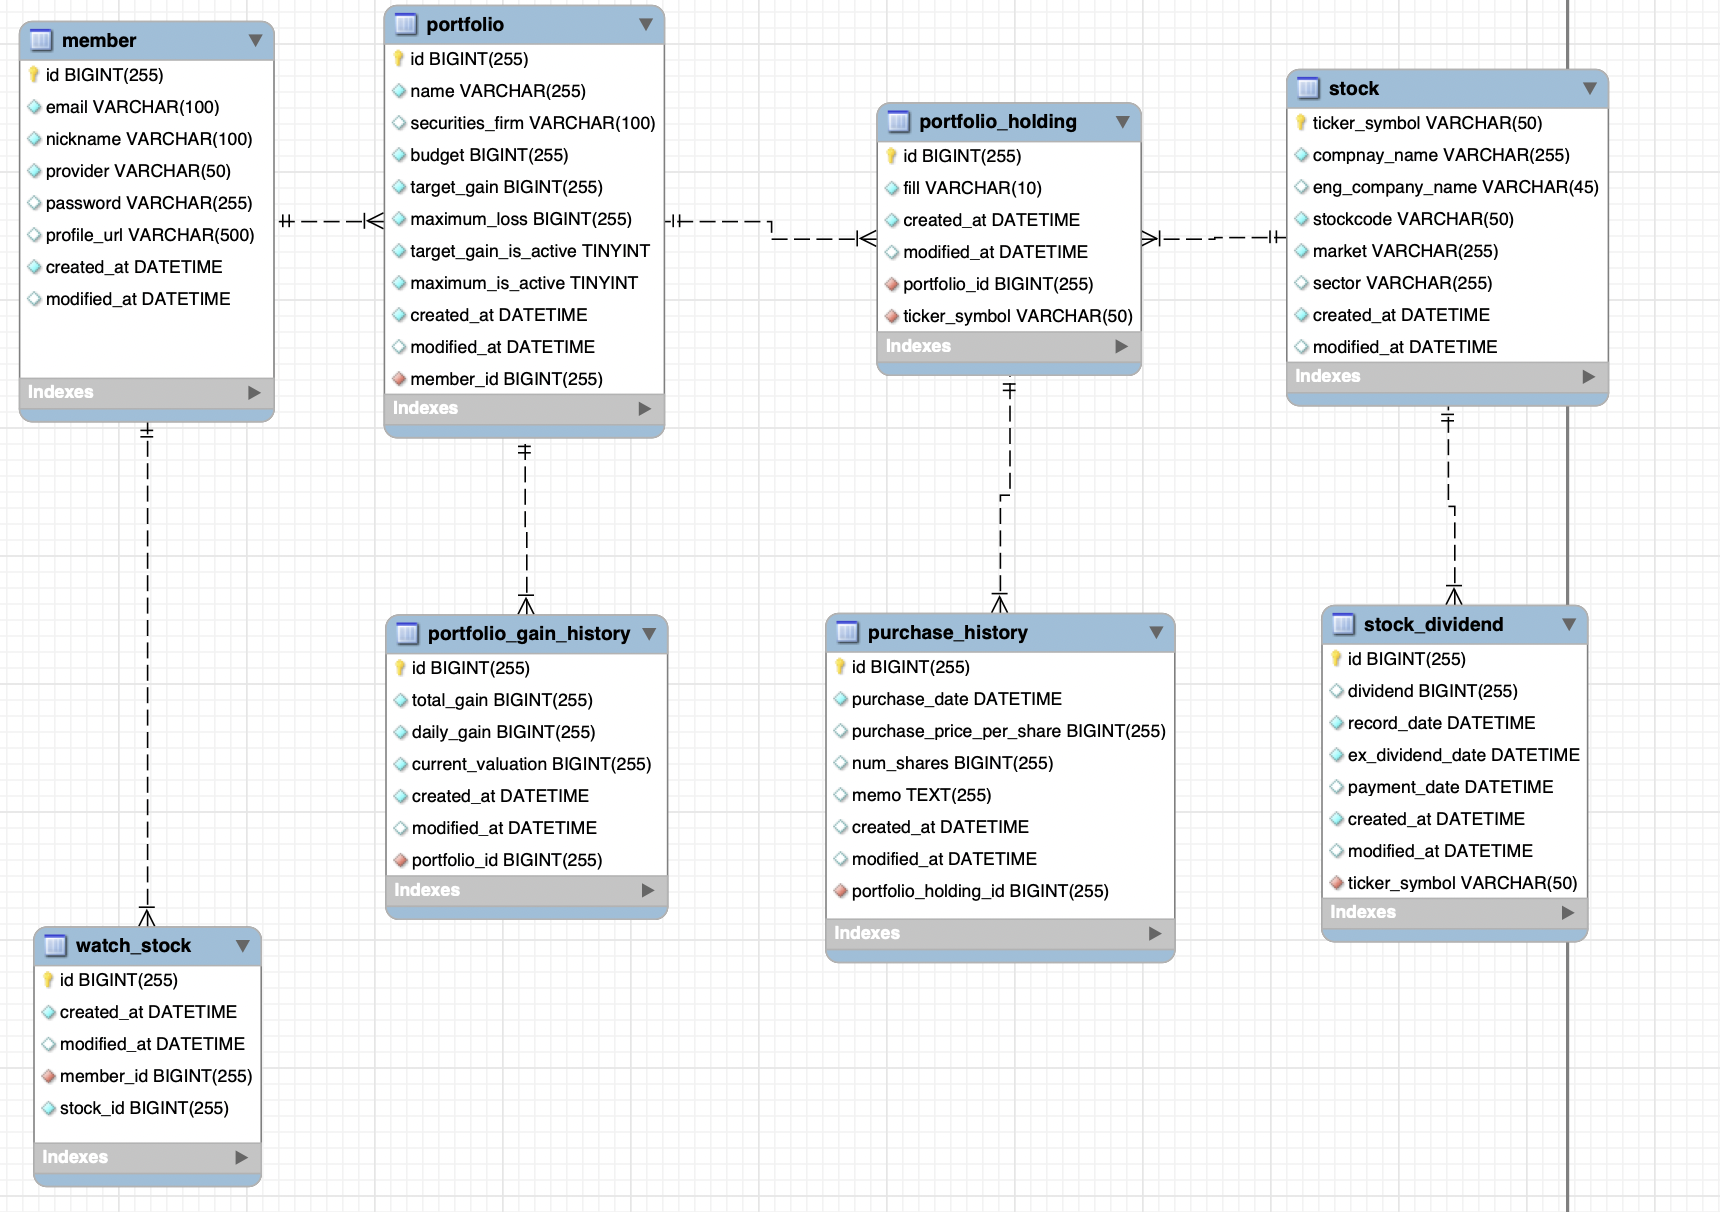
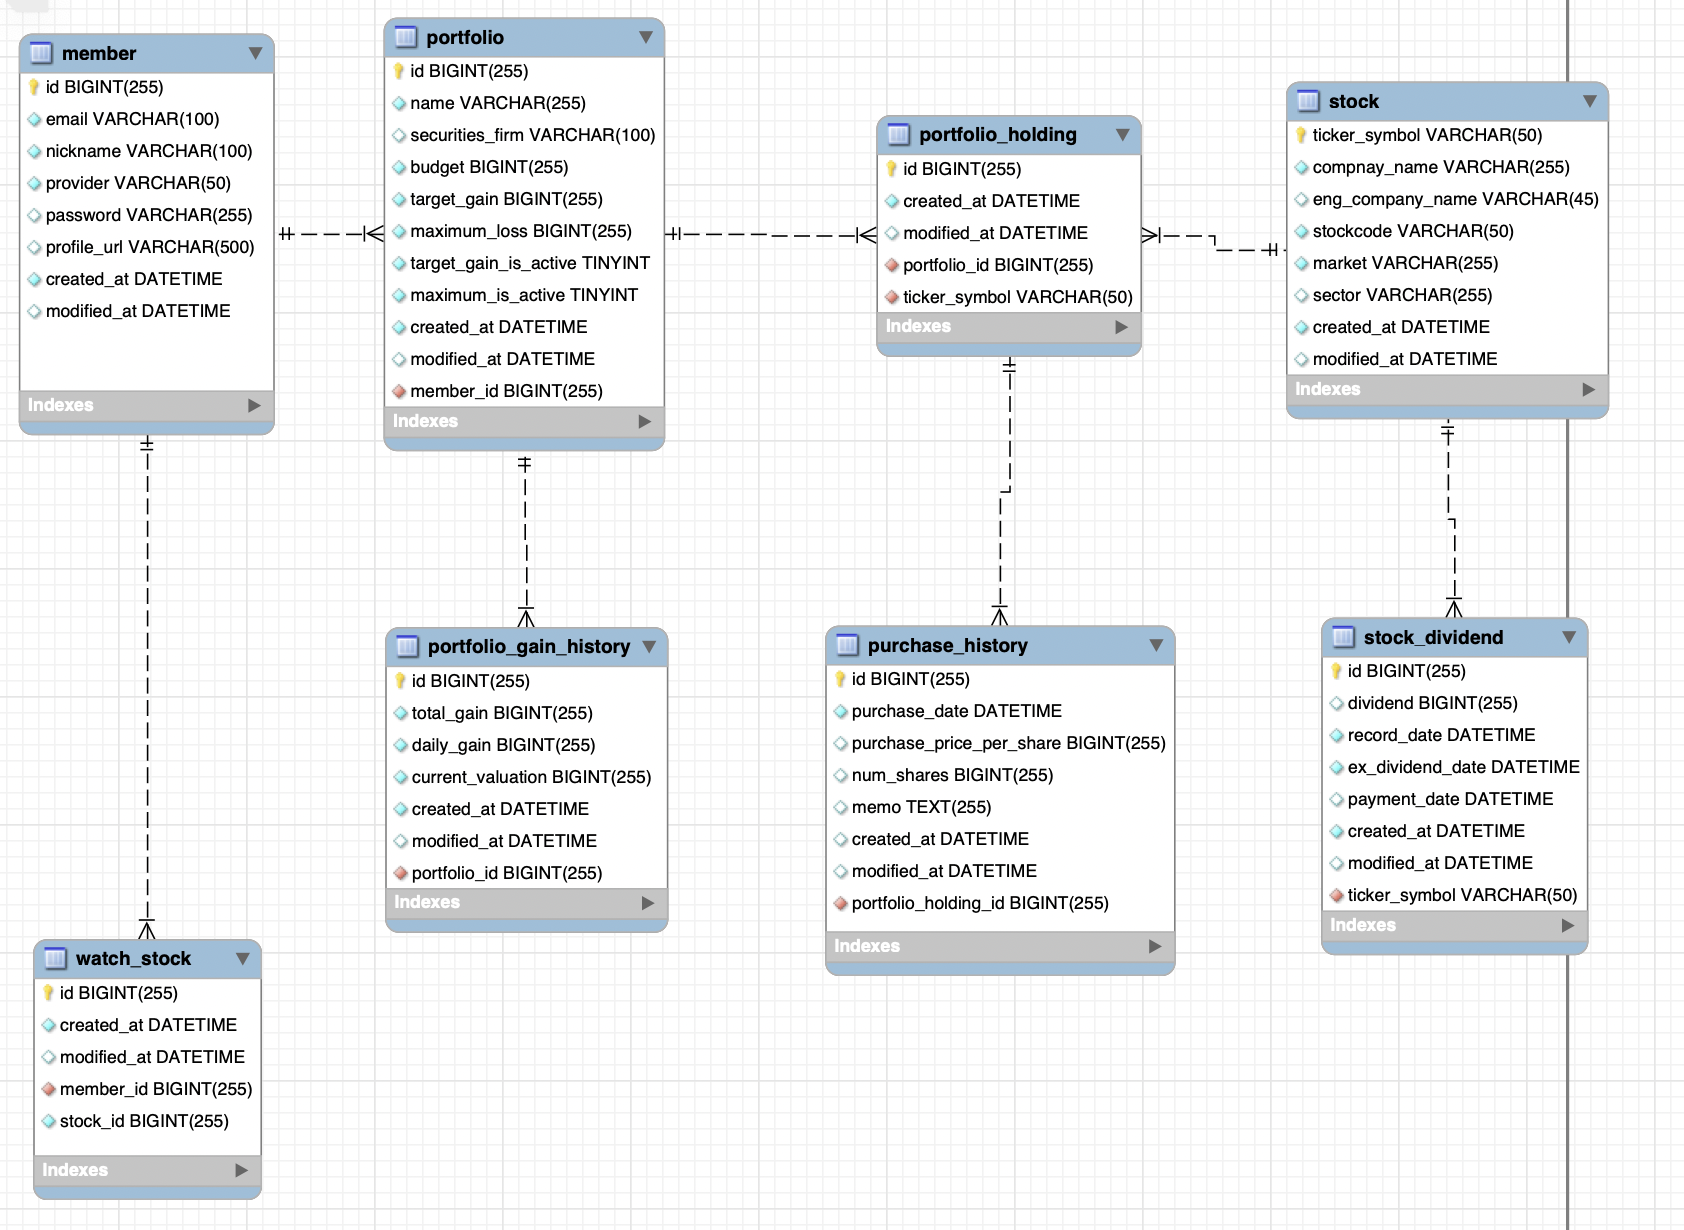
vault backup: 2023-12-04 14:30:26

diff --git a/스크럼/2023-12/2023-12-4 (월).md b/스크럼/2023-12/2023-12-4 (월).md
@@ -31,4 +31,5 @@
 - 카카모토비 :
 	- 포트폴리오 목록 조회 관련해서 정렬 기능을 실행하기 위해서 페이지단위로 데이터를 주는 것이 아닌 모든 데이터를 받고 싶습니다.  
 	- 포트폴리오 목록 조회 응답시 dataCreated 프로퍼티도 응답. 기본정렬은 생성날짜를 기준으로 내림차순으로 정렬 응답
--  
+	- 포트폴리오 다수 삭제 API 별도 필요 (/api/portfolios)
+- 네모네모: 차트 조회시 fill 프로퍼티 삭제, 프론트에서 색상 규칙에 따라서 출력
